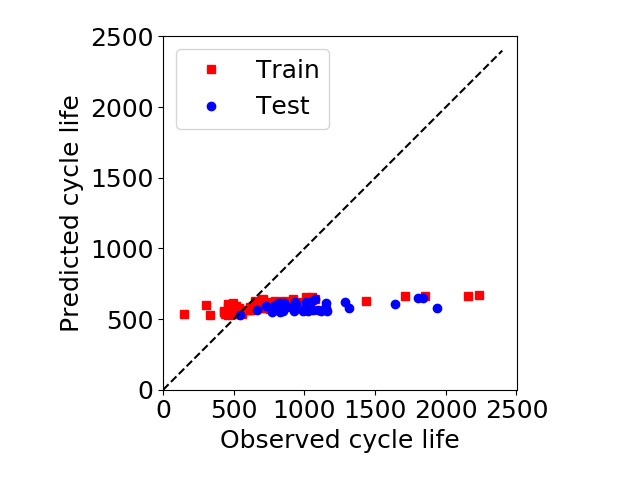
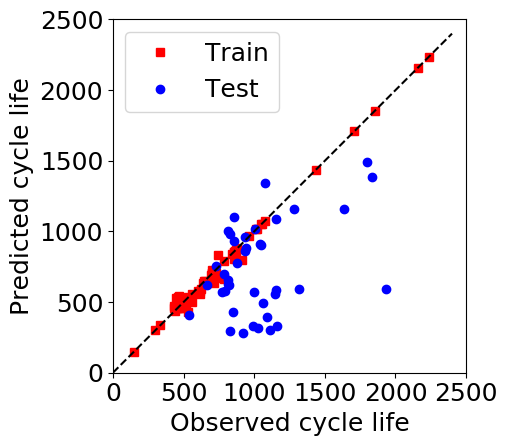
debugging

diff --git a/test.py b/test.py
@@ -38,69 +38,92 @@ def main():
     mpe = np.zeros(N_cycles.shape)
     which_features = [2,3,4,21,22,24,25,39,40,48,49,63,65]
     
-    # load all models
-    models = pickle.load(open(MODEL+"_trained_models.pkl", "rb" ))
-    
-    # loop through enets and make predictions
-    for i in np.arange(len(N_cycles)):
-        print('Starting N_cycles = ' + str(int(N_cycles[i])))
+    if MODEL != 'RF': # versioning issue with random forest
+        # load all models
+        models = pickle.load(open(MODEL+"_trained_models.pkl", "rb" ))
+        
+        # loop through enets and make predictions
+        for i in np.arange(len(N_cycles)):
+            print('Starting N_cycles = ' + str(int(N_cycles[i])))
+            
+            file_name = "testing/cycles_2TO" + str(int(N_cycles[i])) + "_log.csv"
+            features, cycle_lives, feature_names = load_dataset(file_name, False, use_all_features, which_features)
+            
+            file_name = "training/cycles_2TO" + str(int(N_cycles[i])) + "_log.csv"
+            train_features, train_cycle_lives, feature_names = load_dataset(file_name, False, use_all_features, which_features)
+            
+            
+            # set model
+            m = models[i]
+            
+            # predictions
+            if use_log_cycle_life:
+                predicted_cycle_lives = 10**m.predict(features)
+                train_predicted_cycle_lives = 10**m.predict(train_features)
+            else:
+                predicted_cycle_lives = m.predict(features)
+                train_predicted_cycle_lives = m.predict(train_features)
+            
+            print(predicted_cycle_lives)
+            print(train_predicted_cycle_lives)
+            
+            if doPlot:
+                plt.figure()
+                plt.plot(cycle_lives,predicted_cycle_lives,'o')
+                plt.plot([0,1400],[0,1400],'r-')
+                plt.ylabel('Predicted cycle life')
+                plt.xlabel('Observed cycle life')
+                plt.title('Cycle number '+str(N_cycles[i]))
+                #plt.axis('equal')
+                plt.axis([0, 1400, 0, 1400])
+            
+            residuals = predicted_cycle_lives - cycle_lives
+            rmse[i] = np.sqrt(((residuals) ** 2).mean())
+            mpe[i] = np.mean(np.abs(residuals)/cycle_lives*100)
+            
+            print('RMSE (cycles):')
+            print(rmse[i])
+            print('MPE (%):')
+            print(mpe[i])
+            print('=======================================')
+            
+        
+        train_mpe = pickle.load(open(MODEL+"_training_percenterror.pkl", "rb" ))
+        if MODEL != 'enet':
+            cv_mpe = pickle.load(open(MODEL+"_crossvalid_percenterror.pkl", "rb" ))
+        else:
+            cv_mpe = train_mpe # swap
+            
+    else:
+        # random forest only
+        data = pickle.load(open("RF_data.pkl", "rb" ))
+        predicted_cycle_lives = data[0]
+        train_predicted_cycle_lives = data[1]
+        train_mpe = data[2]
+        cv_mpe = data[3]
+        mpe = data[4]
+        
+        i=8
         
         file_name = "testing/cycles_2TO" + str(int(N_cycles[i])) + "_log.csv"
         features, cycle_lives, feature_names = load_dataset(file_name, False, use_all_features, which_features)
         
         file_name = "training/cycles_2TO" + str(int(N_cycles[i])) + "_log.csv"
         train_features, train_cycle_lives, feature_names = load_dataset(file_name, False, use_all_features, which_features)
-        
-        
-        # set model
-        m = models[i]
-        
-        # predictions
-        if use_log_cycle_life:
-            predicted_cycle_lives = 10**m.predict(features)
-            train_predicted_cycle_lives = 10**m.predict(train_features)
-        else:
-            predicted_cycle_lives = m.predict(features)
-            train_predicted_cycle_lives = m.predict(train_features)
-        
-        print(predicted_cycle_lives)
-        print(train_predicted_cycle_lives)
-        
-        if doPlot:
-            plt.figure()
-            plt.plot(cycle_lives,predicted_cycle_lives,'o')
-            plt.plot([0,1400],[0,1400],'r-')
-            plt.ylabel('Predicted cycle life')
-            plt.xlabel('Observed cycle life')
-            plt.title('Cycle number '+str(N_cycles[i]))
-            #plt.axis('equal')
-            plt.axis([0, 1400, 0, 1400])
-        
-        residuals = predicted_cycle_lives - cycle_lives
-        rmse[i] = np.sqrt(((residuals) ** 2).mean())
-        mpe[i] = np.mean(np.abs(residuals)/cycle_lives*100)
-        
-        print('RMSE (cycles):')
-        print(rmse[i])
-        print('MPE (%):')
-        print(mpe[i])
-        print('=======================================')
-        
-    
+
+
     # plot error vs cycle number
-    train_mpe = pickle.load(open(MODEL+"_training_percenterror.pkl", "rb" ))
-    if MODEL != 'enet':
-        cv_mpe = pickle.load(open(MODEL+"_crossvalid_percenterror.pkl", "rb" ))
-    
-    # mse
+    # mpe
     plt.figure()
-    plt.plot(N_cycles, train_mpe, '-o',label='Train')
+    colors = plt.rcParams['axes.prop_cycle'].by_key()['color']
     if MODEL != 'enet':
-        plt.plot(N_cycles, cv_mpe, '-o',label='CV')
-    plt.plot(N_cycles, mpe, '-o',label='Test')
+        plt.plot(N_cycles, train_mpe, '-o',label='Train',color=colors[2])
+    plt.plot(N_cycles, cv_mpe, '-o',label='CV',color=colors[0])
+    plt.plot(N_cycles, mpe, '-o',label='Test',color=colors[1])
     plt.ylabel('Mean percent error (%)')
     plt.xlabel('Cycle number')
     plt.legend()
+    plt.ylim([0,36])
     plt.title(full_name)
     
     plt.tight_layout()

diff --git a/RandomForest.py b/RandomForest.py
@@ -3,9 +3,9 @@ import matplotlib.pyplot as plt
 import math
 from sklearn.ensemble import RandomForestRegressor
 from sklearn import metrics
-from sklearn.cross_validation import cross_val_score
+from sklearn.model_selection import cross_val_score
 import pandas as pd
-import seaborn as sns
+#import seaborn as sns
 
 def main():
     N_cycles = np.array([20,30,40,50,60,70,80,90,100])
@@ -127,14 +127,14 @@ def main():
         print(best_n_trees[i])
         
         print('Training MSE:')
-        ax = sns.heatmap(train_rmse)
-        plt.show()
+        #ax = sns.heatmap(train_rmse)
+        #plt.show()
         print('Cross-validation MSE:')
-        ax = sns.heatmap(rmse)
-        plt.show()
+        #ax = sns.heatmap(rmse)
+        #plt.show()
         print('Cross-validation MPE:')
-        ax = sns.heatmap(mpe)
-        plt.show()
+        #ax = sns.heatmap(mpe)
+        #plt.show()
         
         # Train new model using best hyperparameters:
 
